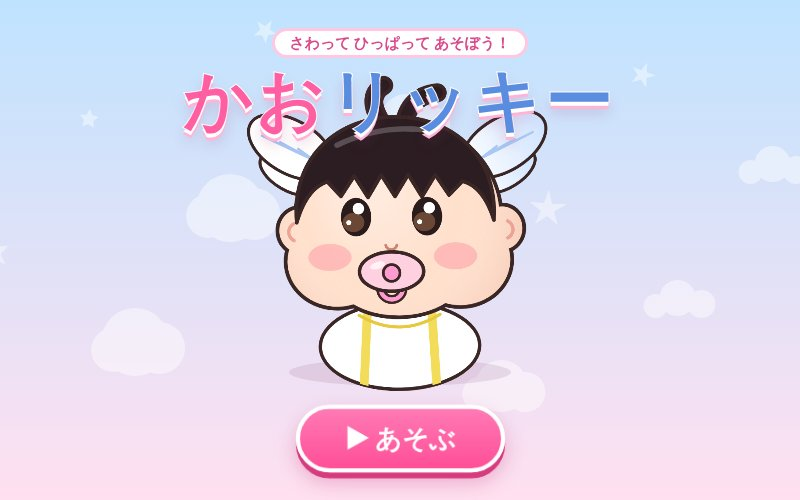
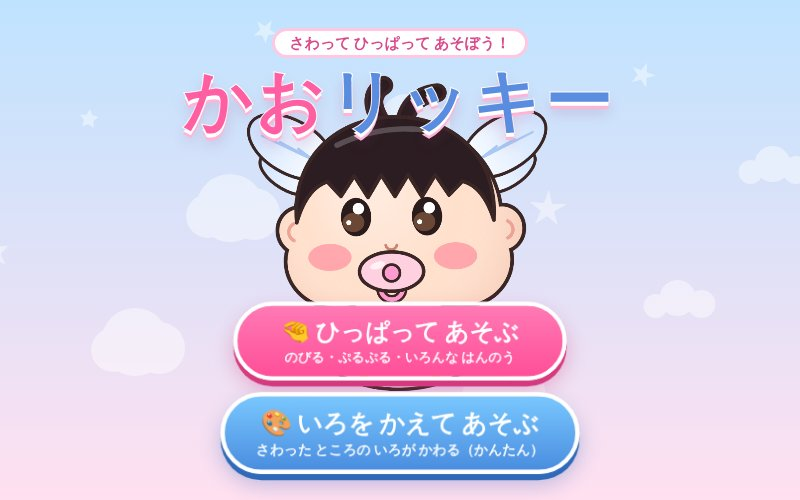
かお リッキー: さわった ところの いろが かわる「いろを かえる モード」を追加
Claude-Session: https://claude.ai/code/session_01HGX3Fm8yuh1n3Jz6Jt3imQ

Changed region(s): [[0.25, 0.6, 0.75, 0.99], [0.3125, 0.24, 0.375, 0.39]]

diff --git a/kao-ricky/index.html b/kao-ricky/index.html
@@ -32,8 +32,18 @@
   .logo .sub{display:inline-block;background:#fff;border:3px solid var(--line);border-radius:99px;padding:2px 14px;font-weight:800;font-size:15px;color:#d94a8c}
   .logo h1{margin:6px 0 0;font-size:clamp(40px,12vw,68px);line-height:1;letter-spacing:.04em;color:#ff5fa2;-webkit-text-stroke:2px #fff;paint-order:stroke fill;text-shadow:0 4px 0 #ffffff,0 7px 0 #ffb3d6,0 10px 14px rgba(160,60,110,.25)}
   .logo h1 i{font-style:normal;color:#5a8de0}
-  #start{font:inherit;font-weight:900;font-size:26px;color:#fff;background:linear-gradient(#ff7ab5,#ff4f98);border:4px solid #fff;border-radius:99px;padding:12px 44px;box-shadow:0 6px 0 #d63a7f,0 10px 20px rgba(200,40,110,.3);cursor:pointer;animation:pulse 1.4s ease-in-out infinite}
-  #start:active{transform:translateY(4px);box-shadow:0 2px 0 #d63a7f}
+  .starts{display:flex;flex-direction:column;align-items:center;gap:14px}
+  .start{font:inherit;font-weight:900;font-size:24px;color:#fff;background:linear-gradient(#ff7ab5,#ff4f98);border:4px solid #fff;border-radius:99px;padding:10px 30px;min-width:min(86vw,330px);box-shadow:0 6px 0 #d63a7f,0 10px 20px rgba(200,40,110,.3);cursor:pointer;animation:pulse 1.4s ease-in-out infinite}
+  .start.iro{background:linear-gradient(#7ac8ff,#4a8de0);box-shadow:0 6px 0 #2f6ab8,0 10px 20px rgba(40,90,180,.3);animation-delay:.7s}
+  .start:active{transform:translateY(4px)}
+  .start small{display:block;font-size:13px;font-weight:800;opacity:.95}
+  #mode{display:flex;border:3px solid var(--line);background:rgba(255,255,255,.92);border-radius:99px;padding:3px;gap:2px}
+  #mode button{font:inherit;font-weight:800;font-size:15px;border:0;border-radius:99px;padding:4px 11px;min-height:36px;background:transparent;color:var(--sub,#8a6a9a);cursor:pointer}
+  #mode button.on{background:#ff7ab5;color:#fff}
+  #mode button.on[data-mode=color]{background:#4a8de0}
+  #resetBtn{display:none}
+  body.color #resetBtn{display:flex}
+  body.color #buruBtn{display:none}
   @keyframes pulse{50%{transform:scale(1.06)}}
   #album{background:rgba(255,233,244,.94);justify-content:flex-start;gap:12px}
   #album h2{margin:4px 0 0;font-size:24px;color:#ff5fa2}
@@ -51,6 +61,7 @@
 <canvas id="fx"></canvas>
 <div id="top">
   <button class="pill" id="star">⭐ 0/0</button>
+  <div id="mode"><button data-mode="stretch" class="on">🤏 のばす</button><button data-mode="color">🎨 いろ</button></div>
   <button class="pill" id="snd">🔊</button>
 </div>
 <div id="bar">
@@ -59,11 +70,15 @@
   <button class="tool" id="hatBtn"><b>👒</b><span>ぼうし</span></button>
   <button class="tool" id="glassBtn"><b>👓</b><span>めがね</span></button>
   <button class="tool" id="buruBtn"><b>💫</b><span>ぶるぶる</span></button>
+  <button class="tool" id="resetBtn"><b>🔄</b><span>もとの いろ</span></button>
 </div>
 <div id="toast"></div>
 <div class="ov" id="title">
   <div class="logo"><div class="sub">さわって ひっぱって あそぼう！</div><h1>かお<i>リッキー</i></h1></div>
-  <button id="start">▶ あそぶ</button>
+  <div class="starts">
+    <button class="start" id="start">🤏 ひっぱって あそぶ<small>のびる・ぷるぷる・いろんな はんのう</small></button>
+    <button class="start iro" id="startColor">🎨 いろを かえて あそぶ<small>さわった ところの いろが かわる（かんたん）</small></button>
+  </div>
 </div>
 <div class="ov hide" id="album">
   <h2>⭐ はっけん アルバム</h2>
@@ -84,7 +99,7 @@ const $ = (id) => document.getElementById(id);
 /* ================= せってい ================= */
 const SZ = 1024;              // かおの デザイン座標（テクスチャ全体 = 1024×1024）
 const FX = 512, FY = 500;     // あたまの まんなか
-const OL = '#3b2626', SKIN = '#ffe0cc', HAIR = '#2b1d22';
+const OL = '#3b2626';
 const N = 32, NV = (N + 1) * (N + 1);
 const SIGMA = 120;            // つまんだ ところの まわりが ついてくる ひろさ
 const KSPR = 170, DAMP = 5.5, KLAP = 360;
@@ -97,6 +112,20 @@ const FINDS = [
   ['gara', 'ガラガラ きゃっきゃ', '🎵'], ['nenne', 'ねんね', '💤'], ['boushi', 'ぼうし きせかえ', '👒'],
   ['megane', 'めがね きせかえ', '👓'], ['buru', 'ぶるぶる', '💫'],
 ];
+// いろを かえる モード：ぶいごとの いろ（さいしょが もとの いろ）
+const PAL = {
+  skin: [['はだいろ', '#ffe0cc'], ['ピンク', '#ffc4dc'], ['きいろ', '#fff0a0'], ['みどり', '#c8f0b0'], ['みずいろ', '#c6e6ff'], ['むらさき', '#e2cdfa'], ['オレンジ', '#ffcf9e']],
+  hair: [['くろ', '#2b1d22'], ['ちゃいろ', '#8a5530'], ['きいろ', '#f5c830'], ['ピンク', '#ff7ab5'], ['あお', '#3f6fd8'], ['みどり', '#3fae5a'], ['むらさき', '#8a52c8'], ['あか', '#e0403a'], ['しろ', '#f4f4f4']],
+  cheek: [['ピンク', '#ff6e8c'], ['あか', '#ff3030'], ['オレンジ', '#ff9a2a'], ['むらさき', '#b060ff'], ['みずいろ', '#40b0ff'], ['きいろ', '#ffd000']],
+  eye: [['くろ', '#2a1c1c'], ['あお', '#1f3f9a'], ['みどり', '#1f7a3a'], ['むらさき', '#5a2a8a'], ['ピンク', '#b02a6a'], ['ちゃいろ', '#6a3a1a']],
+  paci: [['ピンク', '#ffd0e0', '#ff9ccf'], ['みずいろ', '#cfeaff', '#6ab8f5'], ['きいろ', '#fff2a8', '#f5c830'], ['みどり', '#d4f5c4', '#5ac85a'], ['むらさき', '#ead6ff', '#a86ae8'], ['オレンジ', '#ffe0c0', '#ff9a3a']],
+  wing: [['みずいろ', '#cfe2ff'], ['ピンク', '#ffc8e4'], ['きいろ', '#fff0a0'], ['みどり', '#c8f5c0'], ['むらさき', '#dcc8ff'], ['にじいろ', 'rainbow']],
+  body: [['しろ', '#ffffff', '#f3dc5a'], ['ピンク', '#ffd6e8', '#ff7ab5'], ['みずいろ', '#d6ecff', '#4a8de0'], ['きいろ', '#fff4b8', '#ff9a2a'], ['みどり', '#dcf5d0', '#3fae5a'], ['むらさき', '#ecdcff', '#8a52c8']],
+  hat: [['もとの いろ', null], ['あか', '#ff6a6a'], ['あお', '#6a9cff'], ['みどり', '#7ad870'], ['むらさき', '#b88cff'], ['きいろ', '#ffd84a'], ['ピンク', '#ffa8cc']],
+  glass: [['もとの いろ', null], ['あか', '#e0403a'], ['あお', '#3f6fd8'], ['きんいろ', '#e8a820'], ['ピンク', '#ff5fa2'], ['みどり', '#3fae5a']],
+};
+const CI = {}; for (const k in PAL) CI[k] = 0;
+const pc = (k, i = 1) => PAL[k][CI[k]][i];
 const HATS = ['none', 'bonnet', 'chick', 'bear', 'crown', 'party', 'bunny'];
 const GLASSES = ['none', 'round', 'heart', 'star', 'hige'];
 
@@ -110,7 +139,7 @@ const S = {
   noseSquish: 0, tuft: 0, tuftV: 0, flapUntil: 0,
   sleep: false, yawnUntil: 0, snoreT: 0,
   stretch: 0, bigSaid: false, drinking: false,
-  muted: false, found: {},
+  muted: false, found: {}, mode: 'stretch', firstColor: false,
 };
 try { S.found = JSON.parse(localStorage.getItem('kao-ricky-found') || '{}') || {}; } catch (e) { S.found = {}; }
 
@@ -286,7 +315,7 @@ function drawWings(t) {
     g.save(); g.translate(sd * 195, -140); g.rotate(sd * (-0.42 + flap));
     for (const [cx, cy, a, b] of [[sd * 105, 72, 95, 48], [sd * 140, 0, 138, 78]]) {
       ell(cx, cy, a, b);
-      const gr = g.createLinearGradient(0, cy, sd * (cx + a), cy); gr.addColorStop(0, '#ffffff'); gr.addColorStop(1, '#cfe2ff');
+      const gr = g.createLinearGradient(0, cy, cx + sd * a, cy); gr.addColorStop(0, '#ffffff'); if (pc('wing') === 'rainbow') ['#ff9a9a', '#ffd86a', '#9be08a', '#7ac8ff', '#c99bff'].forEach((c, i) => gr.addColorStop(0.2 + i * 0.2, c)); else gr.addColorStop(1, pc('wing'));
       fo(gr, 9);
     }
     g.strokeStyle = '#a9c8f5'; g.lineWidth = 7; g.lineCap = 'round';
@@ -295,19 +324,19 @@ function drawWings(t) {
   }
 }
 function drawBody() {
-  ell(0, 380, 236, 128); fo('#ffffff', 10);
+  ell(0, 380, 236, 128); fo(pc('body'), 10);
   g.save(); ell(0, 380, 236, 128); g.clip();
-  g.strokeStyle = '#f3dc5a'; g.lineWidth = 26; g.beginPath(); g.moveTo(-95, 270); g.lineTo(-110, 540); g.moveTo(95, 270); g.lineTo(110, 540); g.stroke();
+  g.strokeStyle = pc('body', 2); g.lineWidth = 26; g.beginPath(); g.moveTo(-95, 270); g.lineTo(-110, 540); g.moveTo(95, 270); g.lineTo(110, 540); g.stroke();
   g.restore();
   // えり
-  g.beginPath(); g.moveTo(-120, 288); g.quadraticCurveTo(0, 360, 120, 288); g.lineWidth = 9; g.strokeStyle = '#e8c840'; g.stroke();
+  g.beginPath(); g.moveTo(-120, 288); g.quadraticCurveTo(0, 360, 120, 288); g.lineWidth = 9; g.strokeStyle = pc('body', 2); g.stroke();
 }
 function drawHead(lx) {
   const ears = [[-300 - lx * 0.35, 36, 60, 64], [300 - lx * 0.35, 36, 60, 64]];
   const all = ears.concat(HEAD);
   g.lineWidth = 22; g.strokeStyle = OL;
   for (const e of all) { ell(e[0], e[1], e[2], e[3]); g.stroke(); }
-  g.fillStyle = SKIN; for (const e of all) { ell(e[0], e[1], e[2], e[3]); g.fill(); }
+  g.fillStyle = pc('skin'); for (const e of all) { ell(e[0], e[1], e[2], e[3]); g.fill(); }
   // まるみの かげ
   g.save(); g.beginPath(); for (const e of all) { g.moveTo(e[0] + e[2], e[1]); g.ellipse(e[0], e[1], e[2], e[3], 0, 0, TAU); } g.clip();
   const gr = g.createRadialGradient(-90 + lx, -120, 30, 0, 40, 430);
@@ -326,7 +355,7 @@ function drawEye(x, y, mode, open, t) {
   }
   const big = mode === 'wide' ? 1.2 : 1, rxE = 45 * big, ryE = 57 * big * open;
   const llx = S.lookX * 8, lly = S.lookY * 6;
-  ell(x, y, rxE, ryE); g.fillStyle = '#2a1c1c'; g.fill();
+  ell(x, y, rxE, ryE); g.fillStyle = pc('eye'); g.fill();
   g.save(); ell(x, y, rxE, ryE); g.clip();
   ell(x + llx, y + ryE * 0.38 + lly, rxE * 0.72, ryE * 0.5); g.fillStyle = 'rgba(130,86,62,.75)'; g.fill();
   g.fillStyle = '#fff';
@@ -354,10 +383,10 @@ function drawPaci(mx, my, t, fast) {
   const k = 1 + Math.sin(t * (fast ? 16 : 6)) * (fast ? 0.07 : 0.035);
   g.save(); g.translate(mx, my); g.scale(k, k);
   g.lineWidth = 26; g.strokeStyle = OL; g.beginPath(); g.arc(0, 48, 32, 0, TAU); g.stroke();
-  g.lineWidth = 12; g.strokeStyle = '#ff9ccf'; g.stroke();
-  ell(0, 0, 92, 56); fo('#ffd0e0', 10);
+  g.lineWidth = 12; g.strokeStyle = pc('paci', 2); g.stroke();
+  ell(0, 0, 92, 56); fo(pc('paci'), 10);
   ell(-40, -18, 22, 10, -0.3); g.fillStyle = 'rgba(255,255,255,.7)'; g.fill();
-  circ(0, 4, 24); fo('#ff9ccf', 8);
+  circ(0, 4, 24); fo(pc('paci', 2), 8);
   g.restore();
 }
 function drawHairFront(hx, hy) {
@@ -367,39 +396,40 @@ function drawHairFront(hx, hy) {
   const zz = [[160, -60], [120, -120], [80, -56], [40, -122], [0, -58], [-40, -122], [-80, -56], [-120, -120], [-160, -60], [-200, -104]];
   for (const [x, y] of zz) g.lineTo(x + hx, y + hy);
   g.quadraticCurveTo(-262 + hx, -88, -292 + hx, 12); g.closePath(); g.lineJoin = 'round';
-  fo(HAIR, 11);
+  fo(pc('hair'), 11);
   g.strokeStyle = 'rgba(255,255,255,.22)'; g.lineWidth = 16; g.lineCap = 'round';
   g.beginPath(); g.moveTo(-170 + hx, -215); g.quadraticCurveTo(-50 + hx, -272, 80 + hx, -258); g.stroke();
 }
 function drawTufts(hx) {
   g.save(); g.translate(hx * 0.8, -262); g.rotate(S.tuft * 0.5); g.lineCap = 'round';
   const p = () => { g.beginPath(); g.moveTo(-26, 0); g.quadraticCurveTo(-92, -92, -30, -128); g.moveTo(26, 0); g.quadraticCurveTo(40, -96, 128, -104); };
-  p(); g.lineWidth = 56; g.strokeStyle = OL; g.stroke(); p(); g.lineWidth = 34; g.strokeStyle = HAIR; g.stroke();
+  p(); g.lineWidth = 56; g.strokeStyle = OL; g.stroke(); p(); g.lineWidth = 34; g.strokeStyle = pc('hair'); g.stroke();
   g.restore();
 }
 function drawHat(id, hx, t) {
+  const hc = (c) => pc('hat') || c;
   g.save(); g.translate(hx * 0.8, 0); g.lineJoin = 'round'; g.lineCap = 'round';
   if (id === 'bonnet') {
-    for (const sd of [-1, 1]) { g.beginPath(); g.moveTo(sd * 285, -40); g.quadraticCurveTo(sd * 250, 240, sd * 30, 300); g.lineWidth = 40; g.strokeStyle = OL; g.stroke(); g.lineWidth = 22; g.strokeStyle = '#ff9cc6'; g.stroke(); }
-    g.beginPath(); g.ellipse(0, -110, 338, 236, 0, Math.PI, TAU); g.closePath(); fo('#ffb8d4', 11);
+    for (const sd of [-1, 1]) { g.beginPath(); g.moveTo(sd * 285, -40); g.quadraticCurveTo(sd * 250, 240, sd * 30, 300); g.lineWidth = 40; g.strokeStyle = OL; g.stroke(); g.lineWidth = 22; g.strokeStyle = hc('#ff9cc6'); g.stroke(); }
+    g.beginPath(); g.ellipse(0, -110, 338, 236, 0, Math.PI, TAU); g.closePath(); fo(hc('#ffb8d4'), 11);
     g.save(); g.clip(); g.fillStyle = '#fff'; for (let y = -320; y < -110; y += 60) for (let x = -330; x < 330; x += 70) { circ(x + ((y / 60) & 1) * 35, y, 10); g.fill(); } g.restore();
     for (let x = -322; x <= 322; x += 46) { circ(x, -108, 24); fo('#ffffff', 6); }
-    for (const sd of [-1, 1]) { g.beginPath(); g.moveTo(0, 304); g.lineTo(sd * 70, 266); g.lineTo(sd * 70, 342); g.closePath(); fo('#ff9cc6', 9); }
+    for (const sd of [-1, 1]) { g.beginPath(); g.moveTo(0, 304); g.lineTo(sd * 70, 266); g.lineTo(sd * 70, 342); g.closePath(); fo(hc('#ff9cc6'), 9); }
     circ(0, 304, 20); fo('#ff7ab5', 8);
   } else if (id === 'chick') {
-    g.beginPath(); g.ellipse(0, -150, 272, 210, 0, Math.PI, TAU); g.closePath(); fo('#ffd84a', 11);
-    for (const [x, r] of [[-20, -0.4], [10, 0], [40, 0.4]]) { ell(x, -372, 22, 46, r); fo('#ffd84a', 9); }
-    g.beginPath(); g.ellipse(0, -150, 272, 210, 0, Math.PI, TAU); g.closePath(); fo('#ffd84a', 11);
+    g.beginPath(); g.ellipse(0, -150, 272, 210, 0, Math.PI, TAU); g.closePath(); fo(hc('#ffd84a'), 11);
+    for (const [x, r] of [[-20, -0.4], [10, 0], [40, 0.4]]) { ell(x, -372, 22, 46, r); fo(hc('#ffd84a'), 9); }
+    g.beginPath(); g.ellipse(0, -150, 272, 210, 0, Math.PI, TAU); g.closePath(); fo(hc('#ffd84a'), 11);
     g.beginPath(); g.moveTo(-282, -150); for (let i = 0; i <= 12; i++) g.lineTo(-282 + i * 47, -150 + (i % 2 ? 44 : 0)); g.lineTo(282, -120); g.lineTo(-282, -120); g.closePath(); fo('#ffffff', 9);
     for (const sd of [-1, 1]) { circ(sd * 80, -250, 18); g.fillStyle = '#2a1c1c'; g.fill(); circ(sd * 80 + 6, -256, 6); g.fillStyle = '#fff'; g.fill(); ell(sd * 140, -205, 26, 14); g.fillStyle = 'rgba(255,120,120,.5)'; g.fill(); }
     g.beginPath(); g.moveTo(-34, -222); g.lineTo(34, -222); g.lineTo(0, -184); g.closePath(); fo('#ff9a2a', 8);
   } else if (id === 'bear') {
-    for (const sd of [-1, 1]) { circ(sd * 205, -268, 78); fo('#a0683a', 11); circ(sd * 205, -262, 40); g.fillStyle = '#f0c090'; g.fill(); }
-    g.beginPath(); g.ellipse(0, -40, 296, 262, 0, Math.PI * 1.08, Math.PI * 1.92); g.lineWidth = 46; g.strokeStyle = OL; g.stroke(); g.lineWidth = 26; g.strokeStyle = '#a0683a'; g.stroke();
+    for (const sd of [-1, 1]) { circ(sd * 205, -268, 78); fo(hc('#a0683a'), 11); circ(sd * 205, -262, 40); g.fillStyle = '#f0c090'; g.fill(); }
+    g.beginPath(); g.ellipse(0, -40, 296, 262, 0, Math.PI * 1.08, Math.PI * 1.92); g.lineWidth = 46; g.strokeStyle = OL; g.stroke(); g.lineWidth = 26; g.strokeStyle = hc('#a0683a'); g.stroke();
   } else if (id === 'crown') {
     g.save(); g.translate(0, -278); g.rotate(-0.06);
     g.beginPath(); g.moveTo(-150, 40); g.lineTo(-170, -100); g.lineTo(-90, -30); g.lineTo(0, -140); g.lineTo(90, -30); g.lineTo(170, -100); g.lineTo(150, 40); g.closePath();
-    const gr = g.createLinearGradient(0, -140, 0, 40); gr.addColorStop(0, '#fff4a0'); gr.addColorStop(1, '#f0b020'); fo(gr, 11);
+    const gr = g.createLinearGradient(0, -140, 0, 40); gr.addColorStop(0, '#fff4a0'); gr.addColorStop(1, '#f0b020'); fo(pc('hat') || gr, 11);
     g.fillStyle = '#e8483a'; circ(0, 0, 22); g.fill(); g.strokeStyle = OL; g.lineWidth = 6; g.stroke();
     for (const sd of [-1, 1]) { circ(sd * 90, 8, 15); g.fillStyle = '#4a8de0'; g.fill(); g.stroke(); }
     for (const [x, y] of [[-170, -100], [0, -140], [170, -100]]) { circ(x, y, 14); g.fillStyle = '#fff8d0'; g.fill(); g.stroke(); }
@@ -407,7 +437,7 @@ function drawHat(id, hx, t) {
     g.restore();
   } else if (id === 'party') {
     g.save(); g.translate(40, -268); g.rotate(0.18);
-    g.beginPath(); g.moveTo(-120, 0); g.lineTo(0, -230); g.lineTo(120, 0); g.quadraticCurveTo(0, 30, -120, 0); g.closePath(); fo('#6ad0f0', 11);
+    g.beginPath(); g.moveTo(-120, 0); g.lineTo(0, -230); g.lineTo(120, 0); g.quadraticCurveTo(0, 30, -120, 0); g.closePath(); fo(hc('#6ad0f0'), 11);
     g.save(); g.clip(); g.lineWidth = 34; for (let i = -4; i < 6; i++) { g.strokeStyle = i % 2 ? '#ff7ab5' : '#ffe14a'; g.beginPath(); g.moveTo(-200, -i * 70 + 60); g.lineTo(200, -i * 70 - 60); g.stroke(); } g.restore();
     g.beginPath(); g.moveTo(-120, 0); g.lineTo(0, -230); g.lineTo(120, 0); g.quadraticCurveTo(0, 30, -120, 0); g.closePath(); g.lineWidth = 11; g.strokeStyle = OL; g.stroke();
     for (let i = 0; i < 8; i++) { const a = (i / 8) * TAU; ell(Math.cos(a) * 22, -236 + Math.sin(a) * 22, 22, 14, a); fo('#ffffff', 6); }
@@ -415,10 +445,10 @@ function drawHat(id, hx, t) {
   } else if (id === 'bunny') {
     for (const sd of [-1, 1]) {
       g.save(); g.translate(sd * 120, -280); g.rotate(sd * 0.22 + Math.sin(t * 3 + sd) * 0.05);
-      ell(0, -105, 56, 118); fo('#ffffff', 11); ell(0, -96, 28, 88); g.fillStyle = '#ffb8d4'; g.fill();
+      ell(0, -105, 56, 118); fo('#ffffff', 11); ell(0, -96, 28, 88); g.fillStyle = hc('#ffb8d4'); g.fill();
       g.restore();
     }
-    g.beginPath(); g.ellipse(0, -40, 296, 262, 0, Math.PI * 1.1, Math.PI * 1.9); g.lineWidth = 40; g.strokeStyle = OL; g.stroke(); g.lineWidth = 22; g.strokeStyle = '#ff9cc6'; g.stroke();
+    g.beginPath(); g.ellipse(0, -40, 296, 262, 0, Math.PI * 1.1, Math.PI * 1.9); g.lineWidth = 40; g.strokeStyle = OL; g.stroke(); g.lineWidth = 22; g.strokeStyle = hc('#ff9cc6'); g.stroke();
   }
   g.restore();
 }
@@ -426,7 +456,7 @@ function drawGlasses(id, lx, ly) {
   g.save(); g.translate(lx, ly + 10); g.lineJoin = 'round'; g.lineCap = 'round';
   if (id === 'round' || id === 'hige') {
     const lw = id === 'hige' ? 16 : 11;
-    for (const sd of [-1, 1]) { circ(sd * 105, 0, 76); g.fillStyle = 'rgba(210,235,255,.28)'; g.fill(); g.lineWidth = lw; g.strokeStyle = id === 'hige' ? '#1d1a22' : '#7a4a2a'; g.stroke(); }
+    for (const sd of [-1, 1]) { circ(sd * 105, 0, 76); g.fillStyle = 'rgba(210,235,255,.28)'; g.fill(); g.lineWidth = lw; g.strokeStyle = pc('glass') || (id === 'hige' ? '#1d1a22' : '#7a4a2a'); g.stroke(); }
     g.beginPath(); g.moveTo(-30, -6); g.quadraticCurveTo(0, -24, 30, -6); g.stroke();
     g.beginPath(); g.moveTo(-181, -8); g.lineTo(-280, -16); g.moveTo(181, -8); g.lineTo(280, -16); g.stroke();
     g.strokeStyle = 'rgba(255,255,255,.75)'; g.lineWidth = 8; for (const sd of [-1, 1]) { g.beginPath(); g.arc(sd * 105, 0, 56, -2.4, -1.6); g.stroke(); }
@@ -436,19 +466,19 @@ function drawGlasses(id, lx, ly) {
     }
   } else if (id === 'heart') {
     for (const sd of [-1, 1]) {
-      heartPath(g, sd * 105, 4, 190); g.fillStyle = '#ff5fa2'; g.fill(); g.lineWidth = 10; g.strokeStyle = OL; g.stroke();
+      heartPath(g, sd * 105, 4, 190); g.fillStyle = pc('glass') || '#ff5fa2'; g.fill(); g.lineWidth = 10; g.strokeStyle = OL; g.stroke();
       heartPath(g, sd * 105, 6, 140); const gr = g.createLinearGradient(0, -60, 0, 60); gr.addColorStop(0, '#5a1838'); gr.addColorStop(1, '#a8306a'); g.fillStyle = gr; g.fill();
       g.fillStyle = 'rgba(255,255,255,.6)'; ell(sd * 105 - 28, -18, 16, 9, -0.5); g.fill();
     }
-    g.lineWidth = 12; g.strokeStyle = '#ff5fa2'; g.beginPath(); g.moveTo(-20, -10); g.lineTo(20, -10); g.stroke();
+    g.lineWidth = 12; g.strokeStyle = pc('glass') || '#ff5fa2'; g.beginPath(); g.moveTo(-20, -10); g.lineTo(20, -10); g.stroke();
     g.beginPath(); g.moveTo(-195, -20); g.lineTo(-280, -24); g.moveTo(195, -20); g.lineTo(280, -24); g.stroke();
   } else if (id === 'star') {
     for (const sd of [-1, 1]) {
-      starPath(g, sd * 105, 6, 112, 58); g.fillStyle = '#ffd23f'; g.fill(); g.lineWidth = 10; g.strokeStyle = OL; g.stroke();
+      starPath(g, sd * 105, 6, 112, 58); g.fillStyle = pc('glass') || '#ffd23f'; g.fill(); g.lineWidth = 10; g.strokeStyle = OL; g.stroke();
       circ(sd * 105, 6, 60); g.save(); g.globalCompositeOperation = 'destination-out'; g.fill(); g.restore();
       circ(sd * 105, 6, 60); g.fillStyle = 'rgba(200,230,255,.3)'; g.fill(); g.lineWidth = 8; g.strokeStyle = '#e8a820'; g.stroke();
     }
-    g.lineWidth = 12; g.strokeStyle = '#ffd23f'; g.beginPath(); g.moveTo(-40, -6); g.lineTo(40, -6); g.stroke();
+    g.lineWidth = 12; g.strokeStyle = pc('glass') || '#ffd23f'; g.beginPath(); g.moveTo(-40, -6); g.lineTo(40, -6); g.stroke();
   }
   g.restore();
 }
@@ -482,8 +512,9 @@ function drawTexture(t) {
   drawBody();
   drawHead(lx);
   // ほっぺ
-  g.fillStyle = 'rgba(255,110,140,' + (0.32 + S.blush * 0.35) + ')';
+  g.fillStyle = pc('cheek'); g.globalAlpha = 0.5 + S.blush * 0.35;
   for (const sd of [-1, 1]) { ell(sd * 186 + lx * 0.9, 128 + ly, 64 + S.blush * 10, 40 + S.blush * 6); g.fill(); }
+  g.globalAlpha = 1;
   // め
   for (const sd of [-1, 1]) drawEye(sd * 105 + lx, 10 + ly, EX.eyes, EX.open, t);
   // はな
@@ -593,7 +624,7 @@ function burst(kind, x, y, n, o = {}) {
   }
 }
 let bubble = null;
-function talk(text, dur = 1.3) { bubble = { text, t0: S.now, dur }; }
+function talk(text, dur = 1.3, col) { bubble = { text, t0: S.now, dur, col }; }
 const toastEl = $('toast'); let toastTimer = 0;
 function found(id) {
   if (S.found[id]) return;
@@ -699,6 +730,7 @@ glC.addEventListener('pointerdown', (e) => {
   if (S.sleep) wake();
   const [x, y] = toLocal(e), r = screenToRest(x, y);
   if (!r || alphaAt(r[0], r[1]) < 30) { SFX.sparkle(); burst('star', x, y, 6, { sp: 200, size: 16, g: 40 }); return; }
+  if (S.mode === 'color') { colorTap(r[0], r[1], x, y); return; }
   try { glC.setPointerCapture(e.pointerId); } catch (er) {}
   const w = new Float32Array(NV), s2 = 2 * SIGMA * SIGMA;
   for (let k = 0; k < NV; k++) { const ex = rx[k] - r[0], ey = ry[k] - r[1]; w[k] = Math.exp(-(ex * ex + ey * ey) / s2); }
@@ -852,6 +884,42 @@ function drawTool() {
   fx.restore();
 }
 
+/* いろを かえる モード */
+const COLOR_PART = { me: 'eye', hana: 'skin', kao: 'skin', ago: 'skin', mimi: 'skin', hoppe: 'cheek', kuchi: 'paci', kami: 'hair', hat: 'hat', hane: 'wing', karada: 'body' };
+function colorTap(rxp, ryp, sx, sy) {
+  const x = rxp - FX, y = ryp - FY;
+  let part = partAt(x, y);
+  const gs = GLASSES[S.glasses];
+  if (gs !== 'none' && (part === 'me' || (gs === 'hige' && (part === 'hana' || Math.hypot(x, y - 135) < 120)))) part = 'glass';
+  const key = part === 'glass' ? 'glass' : COLOR_PART[part] || 'skin';
+  if (key === 'paci' && !S.paci) S.paci = true;
+  CI[key] = (CI[key] + 1) % PAL[key].length;
+  const [name, col] = PAL[key][CI[key]];
+  S.firstColor = true;
+  const c = col && col !== 'rainbow' ? col : null;
+  SFX.pop(); tone('triangle', 520 * Math.pow(2, CI[key] / 6), 520 * Math.pow(2, CI[key] / 6), 0.2, 0.1, 0.06); SFX.sparkle();
+  talk(name + '！', 1.3, col || undefined); say(name, true);
+  burst('star', sx, sy, 10, { sp: 260, size: 20, g: 60, col: c || undefined });
+  impulse(rxp, ryp, 80, (ux, uy, w, dd) => [ux * 380 * w * Math.min(1, dd / 60), uy * 380 * w * Math.min(1, dd / 60)]);
+  expr('happy', 'laugh', 0.9); S.blush = Math.min(1, S.blush + 0.2);
+}
+function setMode(m) {
+  S.mode = m; document.body.classList.toggle('color', m === 'color');
+  for (const b of document.querySelectorAll('#mode button')) b.classList.toggle('on', b.dataset.mode === m);
+  try { localStorage.setItem('kao-ricky-mode', m); } catch (e) {}
+}
+for (const b of document.querySelectorAll('#mode button')) b.addEventListener('click', () => {
+  if (S.mode === b.dataset.mode) return;
+  auInit(); setMode(b.dataset.mode); SFX.sparkle(); wake(); S.lastTouch = S.now;
+  talk(S.mode === 'color' ? 'いろを かえよう！' : 'ひっぱってね！', 1.6);
+});
+$('resetBtn').addEventListener('click', () => {
+  if (!S.started) return; auInit(); S.lastTouch = S.now; wake();
+  for (const k in CI) CI[k] = 0;
+  SFX.sparkle(); SFX.pop(); talk('もとの いろ！'); laugh(1);
+  const [hx, hy] = restToScreen(FX, FY); burst('star', hx, hy, 14, { sp: 380, size: 20 });
+});
+
 /* ボタン */
 $('hatBtn').addEventListener('click', () => {
   if (!S.started) return; auInit(); S.lastTouch = S.now; wake();
@@ -875,11 +943,14 @@ $('star').addEventListener('click', () => {
   $('album').classList.remove('hide');
 });
 $('aclose').addEventListener('click', () => $('album').classList.add('hide'));
-$('start').addEventListener('click', () => {
+function startGame(mode) {
+  setMode(mode);
   auInit(); S.started = true; S.lastTouch = S.now; $('title').classList.add('hide'); document.body.classList.remove('title');
   SFX.sparkle(); talk('ばぶー！ リッキーだよ', 2); say('ばぶー！', true); laugh(1.5, 'ばぶー！');
   for (let k = 0; k < NV; k++) vy[k] -= 300 * Math.exp(-((rx[k] - FX) ** 2 + (ry[k] - FY) ** 2) / 200000);
-});
+}
+$('start').addEventListener('click', () => startGame('stretch'));
+$('startColor').addEventListener('click', () => startGame('color'));
 updStar();
 
 /* ================= まいフレーム ================= */
@@ -943,9 +1014,9 @@ function drawFX(t, dt) {
       fx.font = '900 ' + p.size * (p.kind === 'z' ? 0.8 + p.life * 0.4 : 1) + 'px sans-serif'; fx.textAlign = 'center'; fx.textBaseline = 'middle';
       fx.lineWidth = 6; fx.strokeStyle = '#fff'; fx.fillStyle = p.kind === 'z' ? '#6a6ab8' : p.col; fx.strokeText(p.text, 0, 0); fx.fillText(p.text, 0, 0);
     } else if (p.kind === 'paci') {
-      const s = p.size / 200; fx.scale(s, s); fx.lineWidth = 22; fx.strokeStyle = OL; fx.beginPath(); fx.arc(0, 48, 32, 0, TAU); fx.stroke(); fx.lineWidth = 12; fx.strokeStyle = '#ff9ccf'; fx.stroke();
-      fx.beginPath(); fx.ellipse(0, 0, 92, 56, 0, 0, TAU); fx.fillStyle = '#ffd0e0'; fx.fill(); fx.lineWidth = 10; fx.strokeStyle = OL; fx.stroke();
-      fx.beginPath(); fx.arc(0, 4, 24, 0, TAU); fx.fillStyle = '#ff9ccf'; fx.fill(); fx.lineWidth = 8; fx.stroke();
+      const s = p.size / 200; fx.scale(s, s); fx.lineWidth = 22; fx.strokeStyle = OL; fx.beginPath(); fx.arc(0, 48, 32, 0, TAU); fx.stroke(); fx.lineWidth = 12; fx.strokeStyle = pc('paci', 2); fx.stroke();
+      fx.beginPath(); fx.ellipse(0, 0, 92, 56, 0, 0, TAU); fx.fillStyle = pc('paci'); fx.fill(); fx.lineWidth = 10; fx.strokeStyle = OL; fx.stroke();
+      fx.beginPath(); fx.arc(0, 4, 24, 0, TAU); fx.fillStyle = pc('paci', 2); fx.fill(); fx.lineWidth = 8; fx.stroke();
     }
     fx.restore();
   }
@@ -962,23 +1033,25 @@ function drawFX(t, dt) {
       const bx = clamp(hx, tw / 2 + 8, W - tw / 2 - 8), by = clamp(hy, 70 + th / 2, H - 120);
       fx.save(); fx.translate(bx, by); fx.scale(sc, sc); fx.globalAlpha = Math.min(1, (bubble.dur - e) * 4);
       fx.beginPath(); if (fx.roundRect) fx.roundRect(-tw / 2, -th / 2, tw, th, th / 2); else fx.rect(-tw / 2, -th / 2, tw, th);
-      fx.fillStyle = '#fff'; fx.fill(); fx.lineWidth = 4; fx.strokeStyle = '#ff9cc6'; fx.stroke();
+      fx.fillStyle = '#fff'; fx.fill(); fx.lineWidth = bubble.col ? 9 : 4; fx.strokeStyle = bubble.col && bubble.col !== 'rainbow' && bubble.col !== '#ffffff' && bubble.col !== '#f4f4f4' ? bubble.col : '#ff9cc6'; fx.stroke();
       fx.beginPath(); fx.moveTo(-tw * 0.25, th / 2 - 2); fx.lineTo(-tw * 0.38, th / 2 + fs * 0.6); fx.lineTo(-tw * 0.1, th / 2 - 2); fx.fillStyle = '#fff'; fx.fill();
       fx.fillStyle = '#e04a8c'; fx.textAlign = 'center'; fx.textBaseline = 'middle'; fx.fillText(bubble.text, 0, 2);
       fx.restore();
     }
   }
   // さいしょの ヒント（ほっぺを つまんで ひっぱる）
-  if (S.started && !S.firstGrab) {
-    const [hx, hy] = restToScreen(...P(186, 128)), ph = (t * 0.8) % 1, k = Math.sin(Math.min(1, ph * 1.4) * Math.PI / 2);
-    fx.save(); fx.globalAlpha = ph < 0.85 ? 1 : (1 - ph) / 0.15;
+  const colorHint = S.mode === 'color';
+  if (S.started && (colorHint ? !S.firstColor : !S.firstGrab)) {
+    const [hx, hy] = restToScreen(...P(186, 128)), ph = (t * 0.8) % 1, k = colorHint ? Math.abs(Math.sin(t * 5)) * 0.15 : Math.sin(Math.min(1, ph * 1.4) * Math.PI / 2);
+    fx.save(); fx.globalAlpha = colorHint || ph < 0.85 ? 1 : (1 - ph) / 0.15;
     fx.font = Math.round(Dsz * 0.1) + 'px sans-serif'; fx.textAlign = 'left'; fx.textBaseline = 'top';
     fx.fillText('👆', hx + k * Dsz * 0.12 - Dsz * 0.03, hy + k * Dsz * 0.06 - Dsz * 0.01);
     fx.restore();
     fx.font = '900 ' + clamp(Dsz * 0.045, 15, 24) + 'px "Hiragino Maru Gothic ProN",sans-serif'; fx.textAlign = 'center';
     fx.lineWidth = 6; fx.strokeStyle = '#fff'; fx.fillStyle = '#e04a8c';
     const ty = Math.min(H - 118, oy + 850 * scl);
-    fx.strokeText('かおを つまんで ひっぱってみてね', W / 2, ty); fx.fillText('かおを つまんで ひっぱってみてね', W / 2, ty);
+    const msg = colorHint ? 'さわった ところの いろが かわるよ' : 'かおを つまんで ひっぱってみてね';
+    fx.strokeText(msg, W / 2, ty); fx.fillText(msg, W / 2, ty);
   }
 }
 

diff --git a/README.md b/README.md
@@ -25,7 +25,7 @@
 ├── .nojekyll               # Jekyll 処理を無効化（ファイルをそのまま配信）
 ├── README.md
 ├── kao-ricky/
-│   └── index.html          # かお リッキー（『マリオ64』の かおマリオ風。あかちゃんの リッキーの かおを つまんで ひっぱると ぐにーっと のびて、はなすと ぷるるんと もどる。かおは キャンバスで かいた え を WebGL の 33×33 メッシュに はり、ばね＋となりあう てんの つながりで ぷるぷる うごかす。マルチタッチで りょうてで のばせる。タップで ぶいごとに はんのう（ほっぺ ぷにっ・はな ぷっ・め ぱちくり・おしゃぶり ぽん・かみ ぴょーん・みみ ぴこぴこ・はね ぱたぱた・あご あぶー）、こちょこちょ、ミルク（ドラッグで くちへ）・ガラガラ（ふる）、ぼうし6しゅ・めがね4しゅ、ぶるぶる、ほうっておくと ねんね。はっけん17しゅは localStorage。こうかおんは Web Audio、あかちゃんの こえは よみあげ。単一 HTML で完結）
+│   └── index.html          # かお リッキー（『マリオ64』の かおマリオ風。あかちゃんの リッキーの かおを つまんで ひっぱると ぐにーっと のびて、はなすと ぷるるんと もどる。かおは キャンバスで かいた え を WebGL の 33×33 メッシュに はり、ばね＋となりあう てんの つながりで ぷるぷる うごかす。マルチタッチで りょうてで のばせる。タップで ぶいごとに はんのう（ほっぺ ぷにっ・はな ぷっ・め ぱちくり・おしゃぶり ぽん・かみ ぴょーん・みみ ぴこぴこ・はね ぱたぱた・あご あぶー）、こちょこちょ、ミルク（ドラッグで くちへ）・ガラガラ（ふる）、ぼうし6しゅ・めがね4しゅ、ぶるぶる、ほうっておくと ねんね。タイトルと うえの きりかえで「いろを かえる モード」（かんたん。さわった ぶい（かみ・はだ・ほっぺ・め・おしゃぶり・はね・ふく・ぼうし・めがね）の いろが じゅんばんに かわり、いろの なまえを よみあげ。「もとの いろ」ボタンで もどす）も えらべる。はっけん17しゅは localStorage。こうかおんは Web Audio、あかちゃんの こえは よみあげ。単一 HTML で完結）
 ├── animal-quiz/
 │   └── index.html          # どうぶつ クイズ（5歳向けの 3択クイズ。どうぶつ32しゅ（えもじ）で「なまえ」「なきごえ」「とくちょう」「たべもの」の もんだいを 1かい10もん。もんだいと えらびしを 音声（Web Speech API の よみあげ）で あんないし、よんでいる えらびしが ひかる。まちがえると その えらびしが うすくなり もういちど えらべるので かならず ぜんもん クリアできる。こうかおんは Web Audio。単一 HTML で完結）
 ├── ai-pm-radar/
